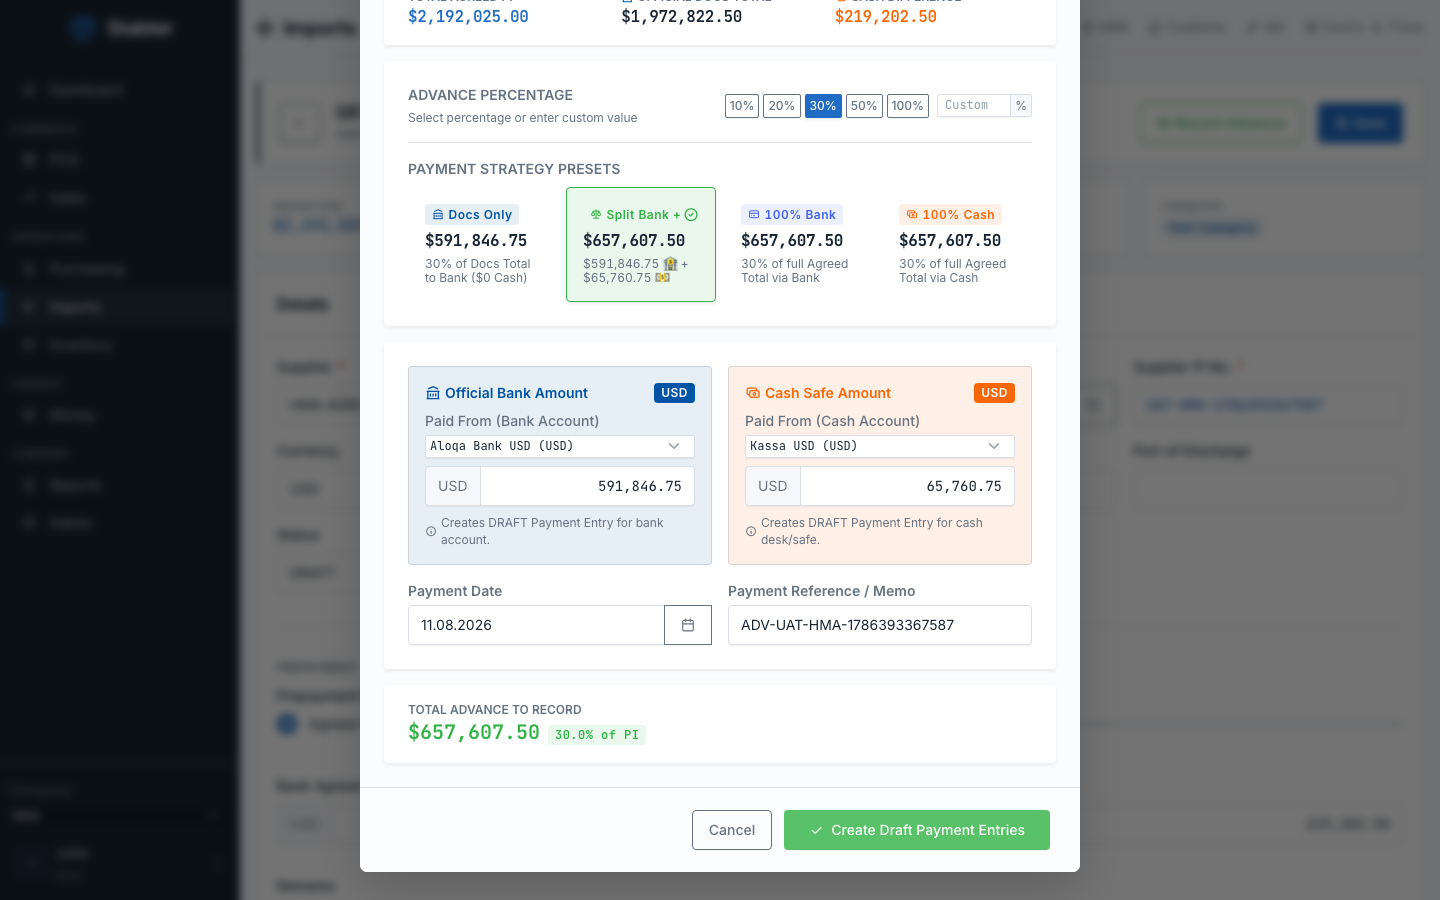
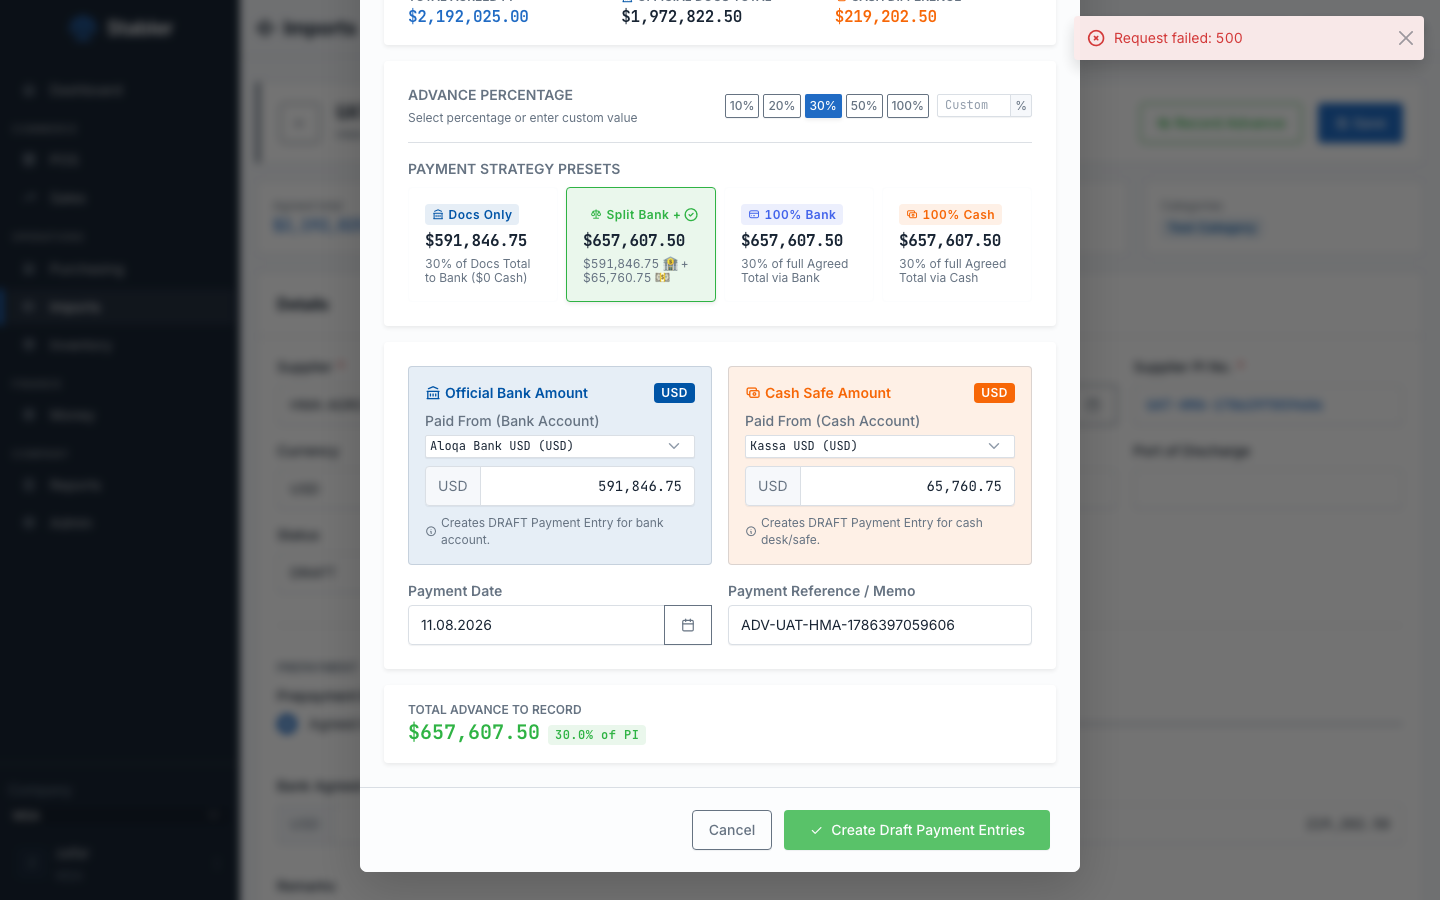
fix: add posting_date property to ProformaInvoice for Payment Entry validation compatibility

Changed region(s): [[0.75, 0.0, 1.0, 0.0933], [0.625, 0.6844, 0.6562, 0.7156]]

diff --git a/stabler/stabler/doctype/proforma_invoice/proforma_invoice.py b/stabler/stabler/doctype/proforma_invoice/proforma_invoice.py
@@ -10,6 +10,10 @@ class ProformaInvoice(Document):
 		self._compute_docs_totals()
 		self._default_and_check_earmark()
 
+	@property
+	def posting_date(self):
+		return self.pi_date
+
 	def _compute_lines(self):
 		"""MSA line math: qty defaults to boxes × box_weight_kg; amount = qty × rate
 		(agreed price); docs_amount = qty × docs_price. agreed_total defaults to
